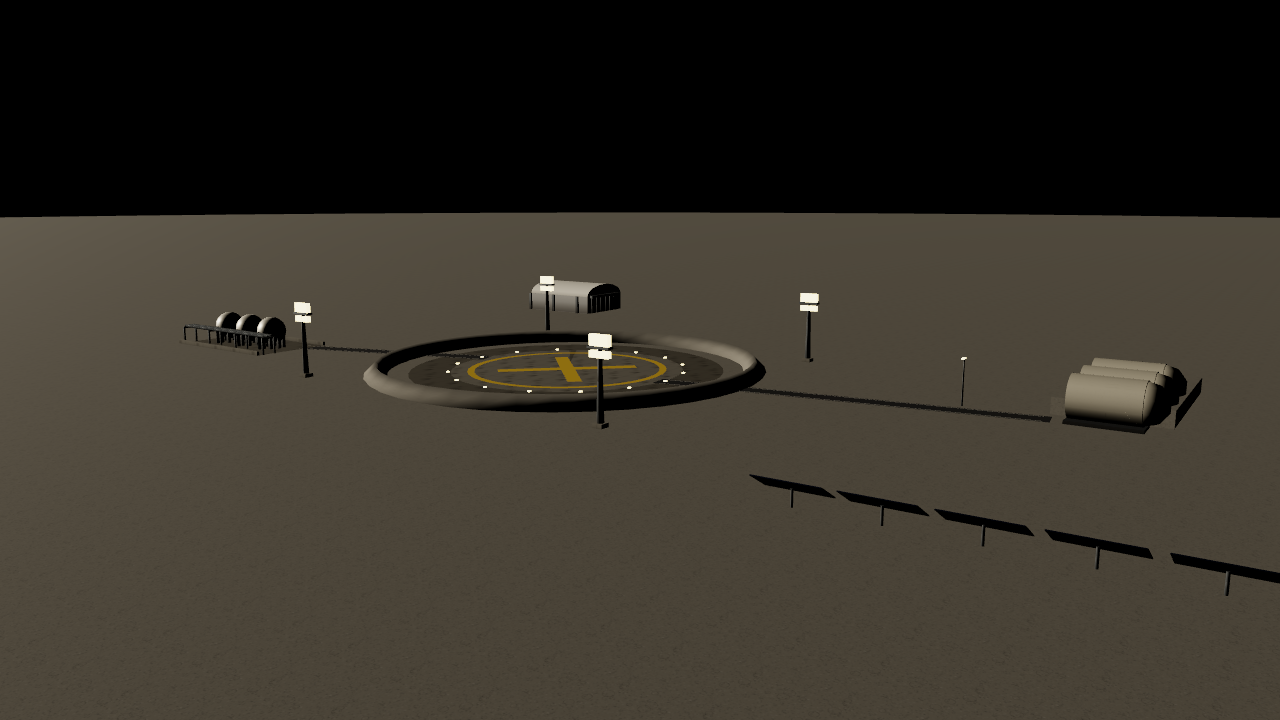
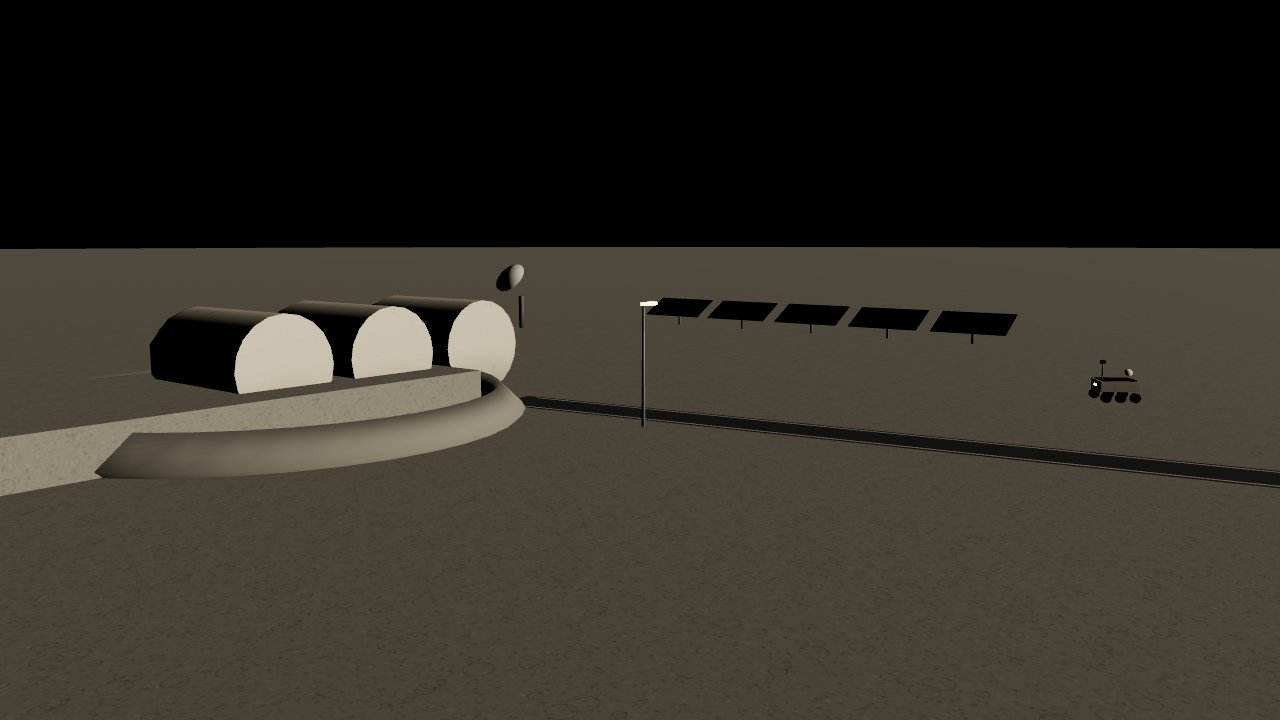
art-sites-6: night lighting (moon)
QA f5.4b: floodlight panels aimed at the pads, emissive light-pole heads, window and door lights, mast beacons; real lights capped per detail (hi 4 spots, mid 1 point, lo none), setSiteNight(obj, on) for the game, lights disposed with the site. Moon/Mars bases: hab berm and two six-wheel rovers (vehicles_art checks hab, tanks, dish, rover, pad, berm). Budget test caps real lights per detail.

Changed region(s): [[0.0, 0.275, 1.0, 0.7028], [0.5938, 0.6417, 1.0, 0.825]]

diff --git a/gfx/sites/kit.js b/gfx/sites/kit.js
@@ -33,11 +33,11 @@ const TEXDEF = {
 const MDEF = { concrete: [0xffffff, 0.95, 0, 'concrete'], apron: [0xc9c6c0, 0.9, 0, 'concrete'], asphalt: [0xffffff, 0.92, 0, 'asphalt'], mark: [0xe8c22a, 0.6, 0], white: [0xf2f1ed, 0.85, 0],
   clad: [0xffffff, 0.7, 0.15, 'clad'], band: [0x5a6f86, 0.6, 0.2], door: [0xa9adb2, 0.55, 0.6, 'clad'], tower: [0xffffff, 0.75, 0.45, 'rust'], steel: [0xffffff, 0.45, 0.8, 'steel'],
   tank: [0xffffff, 0.4, 0.3, 'tank'], pipe: [0xc4c7ca, 0.4, 0.8, 'steel'], dark: [0x2a2b2e, 0.85, 0.2, 'concrete'], deck: [0x4a4d52, 0.85, 0.5, 'steel'], hull: [0x2e333a, 0.6, 0.5, 'steel'],
-  lamp: [0xfff2c8, 0.4, 0, null, 0xffe7a0], ground: [0xffffff, 1, 0, 'ground'], sand: [0xffffff, 1, 0, 'sand'], sea: [0x15394f, 0.2, 0], regolith: [0xffffff, 1, 0, 'regolith'],
+  lamp: [0xfff2c8, 0.4, 0, null, 0xffe7a0], flood: [0xffffff, 0.3, 0, null, 0xfff4dc], win: [0x2a2a22, 0.3, 0, null, 0xffc874], beacon: [0xff3020, 0.4, 0, null, 0xff2010], ground: [0xffffff, 1, 0, 'ground'], sand: [0xffffff, 1, 0, 'sand'], sea: [0x15394f, 0.2, 0], regolith: [0xffffff, 1, 0, 'regolith'],
   redsoil: [0xffffff, 1, 0, 'redsoil'], gold: [0xc9a043, 0.35, 1], solar: [0x1d2a4a, 0.3, 0.6], hab: [0xdedbd2, 0.6, 0.2, 'tank'], glass: [0x0c1218, 0.1, 0.3], green: [0x4d5a3a, 1, 0],
   fence: [0x9da3a8, 0.5, 0.7], red: [0xb3241c, 0.5, 0.2], water: [0x2f6f8f, 0.15, 0] };
 export function smat(k) { if (MATS.has(k)) return MATS.get(k); const d = MDEF[k] || [0xff00ff, 1, 0], map = d[3] ? canvasTex(d[3], TEXDEF[d[3]]) : null;
-  const m = new S({ color: d[0], roughness: d[1], metalness: d[2], vertexColors: true, ...(map ? { map } : {}), ...(d[4] ? { emissive: d[4], emissiveIntensity: 2.2 } : {}) });
+  const m = new S({ color: d[0], roughness: d[1], metalness: d[2], vertexColors: true, ...(map ? { map } : {}), ...(d[4] ? { emissive: d[4], emissiveIntensity: k === 'flood' ? 4 : k === 'win' ? 1.6 : 2.4 } : {}) });
   if (k === 'mark') Object.assign(m, { polygonOffset: true, polygonOffsetFactor: -2, polygonOffsetUnits: -2 });
   m.name = 'site:' + k; m.userData.cached = true; weakDisposeListeners(m); MATS.set(k, m); return m; }
 // merge non-indexed geometries with position/normal/uv/color
@@ -47,7 +47,7 @@ export const SEG = { hi: 20, mid: 8, lo: 6 };
 const _q = new THREE.Quaternion(), _e = new THREE.Euler(), _v = new THREE.Vector3(), _s = new THREE.Vector3(), Y = new THREE.Vector3(0, 1, 0);
 const M = (p = [0, 0, 0], ry = 0, s = [1, 1, 1]) => { _e.set(0, ry, 0); return new THREE.Matrix4().compose(_v.set(...p), _q.setFromEuler(_e), _s.set(...s)); };
 // merge buffer: per material key; `tf` stack of placement matrices
-export class SK { constructor(detail) { this.detail = detail; this.seg = SEG[detail]; this.hi = detail === 'hi'; this.lo = detail === 'lo'; this.b = new Map(); this.T = [new THREE.Matrix4()]; this.base = 0; this.noAO = new Set(['mark', 'lamp', 'sea', 'ground', 'sand', 'regolith', 'redsoil', 'asphalt', 'water']); }
+export class SK { constructor(detail) { this.detail = detail; this.seg = SEG[detail]; this.hi = detail === 'hi'; this.lo = detail === 'lo'; this.b = new Map(); this.T = [new THREE.Matrix4()]; this.base = 0; this.lights = []; this.noAO = new Set(['mark', 'lamp', 'flood', 'win', 'beacon', 'sea', 'ground', 'sand', 'regolith', 'redsoil', 'asphalt', 'water']); }
   push(m) { this.T.push(this.T.at(-1).clone().multiply(m)); return this; } pop() { this.T.pop(); return this; }
   add(geo, k, m) { const g = geo.index ? geo.toNonIndexed() : geo; if (g !== geo) geo.dispose(); for (const a of Object.keys(g.attributes)) if (!['position', 'normal'].includes(a)) g.deleteAttribute(a);
     g.applyMatrix4(m ? this.T.at(-1).clone().multiply(m) : this.T.at(-1)); const P = g.attributes.position.array, N = g.attributes.normal.array, c = P.length / 3, uv = new Float32Array(c * 2), col = new Float32Array(c * 3), T = 8;
@@ -57,6 +57,7 @@ export class SK { constructor(detail) { this.detail = detail; this.seg = SEG[det
       const h = y - this.base, ao = Math.min(1, (0.5 + 0.5 * Math.min(1, Math.max(0, h) / 4)) * (ny < -0.5 ? 0.6 : 1) * (ny > 0.5 ? 1.05 : 0.92));
       col[i * 3] = col[i * 3 + 1] = col[i * 3 + 2] = this.noAO.has(k) ? 1 : ao; }
     g.setAttribute('uv', new THREE.BufferAttribute(uv, 2)); g.setAttribute('color', new THREE.BufferAttribute(col, 3)); (this.b.get(k) || this.b.set(k, []).get(k)).push(g); return this; }
+  light(p, aim = [0, 0, 0], pri = 1) { const v = new THREE.Vector3(...p).applyMatrix4(this.T.at(-1)), a = new THREE.Vector3(...aim).applyMatrix4(this.T.at(-1)); this.lights.push({ p: v.toArray(), aim: a.toArray(), pri }); return this; }
   box(k, w, h, d, p = [0, 0, 0], ry = 0) { return this.add(new THREE.BoxGeometry(w, h, d), k, M([p[0], p[1] + h / 2, p[2]], ry)); } // p = bottom centre
   cyl(k, r0, r1, h, p = [0, 0, 0], seg = this.seg, open = false) { return this.add(new THREE.CylinderGeometry(r1, r0, h, Math.max(3, seg), 1, open), k, M([p[0], p[1] + h / 2, p[2]])); }
   sph(k, r, p, seg = this.seg) { return this.add(new THREE.SphereGeometry(r, Math.max(4, seg), Math.max(3, seg >> 1)), k, M(p)); }
@@ -113,8 +114,9 @@ const parts = {
       for (const a of t.arms || []) trussArm(K, tx + w / 2, a.y, tz, a.len, 2.6); }
     if (!K.lo) for (const s of [-1, 1]) K.box('concrete', 6, 3, 6, [s * r * 0.6, 0, -r * 0.55]);
     const f = r * 1.15; fence(K, [[-f, -f], [f, -f], [f, f], [-f, f], [-f, -f]]); // pad perimeter fence
-    if (!K.lo) for (const [x, z] of [[-f, -f], [f, -f], [f, f], [-f, f]]) { K.cyl('steel', 0.4, 0.25, 30, [x * 0.95, 0, z * 0.95], 6); K.box('lamp', 3, 1.4, 0.8, [x * 0.95, 30, z * 0.95]); } },
-  catch(K, o) { const w = o.w || 12, h = o.h || 145; lattice(K, w, h, 'steel'); K.cyl('steel', 0.5, 0.15, 12, [0, h, 0], 6); catenary(K, 0, h + 12, 0, 90);
+    if (!K.lo) for (const [x, z] of [[-f, -f], [f, -f], [f, f], [-f, f]]) { K.cyl('steel', 0.4, 0.25, 30, [x * 0.95, 0, z * 0.95], 6); K.box('flood', 4, 2.2, 0.8, [x * 0.95, 30, z * 0.95], Math.atan2(x, z)); K.box('steel', 4.4, 0.4, 1.2, [x * 0.95, 29.6, z * 0.95], Math.atan2(x, z)); K.light([x * 0.95, 31, z * 0.95], [0, 10, 0], 0); }
+    if (o.tower && !K.lo) { const t = o.tower, tx = t.x ?? -(r * 0.4); for (const a of t.arms || []) K.box('win', 1.2, 0.6, 0.3, [tx + (t.w || 10) / 2 + 0.6, a.y - 1, (t.z ?? 0) + (t.w || 10) / 2 + 0.2]); K.box('beacon', 0.8, 0.8, 0.8, [tx, t.h + (t.mast || 20), t.z ?? 0]); } }, // arm-root lights, mast beacon
+  catch(K, o) { const w = o.w || 12, h = o.h || 145; lattice(K, w, h, 'steel'); K.cyl('steel', 0.5, 0.15, 12, [0, h, 0], 6); catenary(K, 0, h + 12, 0, 90); K.box('beacon', 1, 1, 1, [0, h + 12, 0]); if (!K.lo) for (const yy of [h * 0.3, h * 0.6, h * 0.9]) K.box('flood', 3, 1.5, 0.5, [0, yy, w / 2 + 0.4]); K.light([0, h * 0.6, w / 2 + 2], [0, 10, w / 2 + (o.arm || 35) * 0.85], 0);
     const ay = o.armY || h * 0.75, L = o.arm || 35, zc = w / 2 + L * 0.85; K.box('steel', w + 6, 8, 6, [0, ay - 2, w / 2 + 1]); // carriage riding the tower
     for (const s of [-1, 1]) { // chopsticks: tapered truss arms on pivots, with catch rails and bumper pads
       const x = s * (w / 2 + 2.5); K.cyl('steel', 1.6, 1.6, 6, [x, ay - 3, w / 2 + 2], 10);
@@ -133,11 +135,12 @@ const parts = {
       for (let z = -d / 2; z <= d / 2 + 0.1; z += rib) for (const s of [-1, 1]) K.box('steel', 1.0, h, 1.0, [s * (w / 2 + 0.5), 0, z]);
       const nd = o.doors || 2, rows = K.hi ? 7 : 4; for (let i = 0; i < nd; i++) { const x = (i - (nd - 1) / 2) * w / nd, dw = w / nd * 0.5, dh = h * 0.85;
         for (const s of [-1, 1]) { K.box('dark', dw + 2, dh + 1, 0.3, [x, 0, s * (d / 2 + 0.2)]); for (let r = 0; r < rows; r++) K.box('door', dw, dh / rows - 0.6, 0.7, [x, r * dh / rows, s * (d / 2 + 0.4)]); } } // stacked leaf door panels
+      for (const s of [-1, 1]) K.box('win', w * 0.9, 0.8, 0.3, [0, h * 0.92, s * (d / 2 + 1.1)]); K.box('win', w * 0.5, 1, 0.3, [w * 0.8, h * 0.2, d * 0.25 + 0.2]);
       K.box('clad', w * 0.6, h * 0.35, d * 0.5, [w * 0.8, 0, 0]); for (let i = 0; i < (K.hi ? 6 : 3); i++) K.box('dark', 4, 3, 3, [w * 0.8 - w * 0.2 + i * w * 0.08, h * 0.35, 0]); } // low bay + roof units
     K.box('dark', w + 1, 0.8, d + 1, [0, h, 0]); },
   hangar(K, o) { const w = o.w || 60, d = o.d || 90, h = o.h || 22; K.box('clad', w, h * 0.6, d);
     const g = new THREE.CylinderGeometry(w / 2, w / 2, d, Math.max(4, K.seg), 1, false, -Math.PI / 2, Math.PI); g.rotateX(-Math.PI / 2); g.scale(1, (h * 0.4) / (w / 2), 1); K.add(g, 'white', M([0, h * 0.6, 0]));
-    if (!K.lo) { const nl = K.hi ? 6 : 3; for (let i = 0; i < nl; i++) K.box('door', w * 0.8 / nl - 0.4, h * 0.55, 0.6, [-w * 0.4 + (i + 0.5) * w * 0.8 / nl, 0, d / 2]); K.box('steel', w * 0.85, 0.8, 1.2, [0, h * 0.55, d / 2 + 0.3]); // door leaves + track
+    if (!K.lo) { const nl = K.hi ? 6 : 3; for (let i = 0; i < nl; i++) K.box('door', w * 0.8 / nl - 0.4, h * 0.55, 0.6, [-w * 0.4 + (i + 0.5) * w * 0.8 / nl, 0, d / 2]); K.box('steel', w * 0.85, 0.8, 1.2, [0, h * 0.55, d / 2 + 0.3]); for (const x of [-w * 0.3, 0, w * 0.3]) K.box('lamp', 1.4, 0.4, 0.8, [x, h * 0.58, d / 2 + 0.8]); // door leaves + track + door lights
       for (let z = -d / 2; z <= d / 2; z += K.hi ? 10 : 30) for (const s of [-1, 1]) K.box('steel', 0.8, h * 0.6, 0.8, [s * (w / 2 + 0.4), 0, z]); } },
   tanks(K, o) { const n = o.n || 3, r = o.r || 8, gap = r * 2.6;
     for (let i = 0; i < n; i++) { const x = (i - (n - 1) / 2) * gap; if (o.style === 'h') { const g = new THREE.CylinderGeometry(r, r, r * 5, Math.max(4, K.seg)); g.rotateX(Math.PI / 2); K.add(g, 'tank', M([x, r + 1.5, 0])); if (!K.lo) { K.sph('tank', r, [x, r + 1.5, -r * 2.5], Math.max(4, K.seg >> 1)); K.sph('tank', r, [x, r + 1.5, r * 2.5], Math.max(4, K.seg >> 1)); K.box('concrete', r * 1.6, 1.5, 1.5, [x, 0, -r * 1.8]); K.box('concrete', r * 1.6, 1.5, 1.5, [x, 0, r * 1.8]); } }
@@ -151,7 +154,7 @@ const parts = {
       if (o.line && K.hi) { const dash = K.hi ? 12 : 24, nd = Math.floor(L / dash); for (let j = 0; j < nd; j++) { const t = (j + 0.5) * dash - L / 2; K.flat('mark', 0.3, dash * 0.5, [cx + ux * t, 0, cz + uz * t], ry, 0.04); } } // dashed centre line
       if (o.poles !== false) { const sp = K.hi ? 60 : 300, np = Math.floor(L / sp); for (let j = 1; j <= np; j++) { const t = j * sp - L / 2, px = cx + ux * t + uz * (w / 2 + 2), pz = cz + uz * t - ux * (w / 2 + 2);
         K.cyl('steel', 0.18, 0.12, 9, [px, 0, pz], 4); K.box('lamp', 0.5, 0.25, 1.4, [px - uz * 0.8, 9, pz + ux * 0.8]); } } } }, // light poles
-  masts(K, o) { for (const [x, z] of o.pts) { const h = o.h || 40; K.cyl('steel', 0.7, 0.35, h, [x, 0, z], 6); K.box('lamp', 4, 2, 1, [x, h, z]); if (!K.lo) { K.box('steel', 4.6, 0.4, 1.4, [x, h - 0.4, z]); K.box('concrete', 2, 0.8, 2, [x, 0, z]); } if (K.hi) K.box('lamp', 4, 1.2, 1, [x, h - 2, z]); } },
+  masts(K, o) { for (const [x, z] of o.pts) { const h = o.h || 40; K.light([x, h, z], [x * 0.3, 0, z * 0.3], 1); K.cyl('steel', 0.7, 0.35, h, [x, 0, z], 6); K.box('lamp', 4, 2, 1, [x, h, z]); if (!K.lo) { K.box('steel', 4.6, 0.4, 1.4, [x, h - 0.4, z]); K.box('concrete', 2, 0.8, 2, [x, 0, z]); } if (K.hi) K.box('lamp', 4, 1.2, 1, [x, h - 2, z]); } },
   water(K, o) { const h = o.h || 60, r = o.r || 9; if (!K.lo) { for (let i = 0; i < 4; i++) { const a = i * Math.PI / 2 + Math.PI / 4; K.beam('steel', [Math.cos(a) * r * 0.9, 0, Math.sin(a) * r * 0.9], [Math.cos(a) * r * 0.35, h, Math.sin(a) * r * 0.35], 0.9); }
       for (let j = 1; j < (K.hi ? 4 : 2) + 1; j++) { const t = j / ((K.hi ? 4 : 2) + 1), rr = r * (0.9 - 0.55 * t); K.add(new THREE.TorusGeometry(rr, 0.2, 3, 8).rotateX(Math.PI / 2), 'steel', M([0, h * t, 0])); } } // tension rings
     K.cyl('pipe', 1.2, 1.2, h, [0, 0, 0], 6); K.sph('white', r, [0, h + r * 0.6, 0]); if (!K.lo) { K.add(new THREE.TorusGeometry(r * 0.95, 0.3, 3, K.hi ? 20 : 10).rotateX(Math.PI / 2), 'steel', M([0, h + r * 0.6, 0])); K.cyl('pipe', 0.8, 0.8, 30, [0, 0, 0], 6); } },
@@ -162,7 +165,7 @@ const parts = {
     for (const s of [-1, 1]) { K.box('hull', 1.2, 3, L - 4, [s * (W / 2 - 0.6), 2, 0]); if (!K.lo) { K.box('tank', 6, 5, 8, [s * (W / 2 - 4), 2, -L / 2 + 6]); K.box('tank', 6, 5, 8, [s * (W / 2 - 4), 2, L / 2 - 6]); K.cyl('dark', 2.2, 2.2, 3, [s * (W / 2 - 4), -7, -L / 2 + 6], K.seg); K.cyl('dark', 2.2, 2.2, 3, [s * (W / 2 - 4), -7, L / 2 - 6], K.seg);
       fence(K, [[s * (W / 2 - 0.3), -L / 2 + 12], [s * (W / 2 - 0.3), L / 2 - 12]], 1.2); } }
     if (K.hi) K.box('steel', W - 6, 0.6, 1, [0, 2.4, -L / 2 + 2]); },
-  block(K, o) { const w = o.w || 20, h = o.h || 6, d = o.d || 14; K.box(o.mat || 'concrete', w, h, d); if (!K.lo) { K.box('dark', w + 0.6, 0.6, d + 0.6, [0, h, 0]); K.box('glass', w * 0.7, 1.2, 0.2, [0, h * 0.5, d / 2]); }
+  block(K, o) { const w = o.w || 20, h = o.h || 6, d = o.d || 14; K.box(o.mat || 'concrete', w, h, d); if (!K.lo) { K.box('dark', w + 0.6, 0.6, d + 0.6, [0, h, 0]); K.box('win', w * 0.7, 1.2, 0.2, [0, h * 0.5, d / 2]); K.box('win', w * 0.7, 1.2, 0.2, [0, h * 0.5, -d / 2]); K.box('lamp', 1.2, 0.4, 0.6, [0, h - 1, d / 2 + 0.4]); }
     if (o.roof && !K.lo) { K.box('dark', w * 0.3, 2, d * 0.3, [0, h, 0]); K.cyl('steel', 0.15, 0.1, 12, [w * 0.4, h, 0], 4); } },
   stand(K, o) { const h = o.h || 30; lattice(K, 8, h, 'steel'); K.box('concrete', 16, 4, 16); K.box('steel', 12, 1.5, 12, [0, h, 0]); }, // static-fire stand
   hab(K, o) { const n = o.n || 3, r = o.r || 4; for (let i = 0; i < n; i++) { const g = new THREE.CylinderGeometry(r, r, r * 3, Math.max(4, K.seg)); g.rotateZ(Math.PI / 2); K.add(g, 'hab', M([0, r + 0.6, i * r * 2.4], 0)); if (!K.lo) { K.sph('hab', r * 0.96, [r * 1.5, r + 0.6, i * r * 2.4], Math.max(4, K.seg >> 1)); K.box('steel', r * 3.2, 0.6, r * 1.4, [0, 0, i * r * 2.4]); } }
@@ -170,6 +173,9 @@ const parts = {
   solar(K, o) { const n = o.n || 4; for (let i = 0; i < n; i++) { const x = (i - (n - 1) / 2) * 12; if (!K.lo) K.cyl('steel', 0.2, 0.2, 2.5, [x, 0, 0], 4); const g = new THREE.BoxGeometry(10, 0.15, 5); g.rotateX(-0.5); K.add(g, 'solar', M([x, 2.8, 0])); } },
   berm(K, o) { const r = o.r || 40; K.add(new THREE.TorusGeometry(r, o.t || 2.5, 4, Math.max(8, K.seg * 2)).rotateX(Math.PI / 2), o.mat || 'regolith', M([0, 0.4, 0])); },
   dish(K, o) { const r = o.r || 5; K.cyl('steel', 0.4, 0.4, o.h || 6, [0, 0, 0], 6); const g = new THREE.SphereGeometry(r, Math.max(4, K.seg), 3, 0, Math.PI * 2, 0, 0.7); g.rotateX(-0.9); K.add(g, 'white', M([0, (o.h || 6) + 1, 0])); },
+  rover(K, o) { const L = o.len || 3.2, W = o.w || 2.2; K.box('hab', L, 0.9, W, [0, 0.9, 0]); K.box('solar', L * 0.9, 0.08, W * 0.9, [0, 1.8, 0]);
+    for (const i of [-1, 0, 1]) for (const s of [-1, 1]) { const g = new THREE.CylinderGeometry(0.42, 0.42, 0.35, K.lo ? 6 : K.hi ? 14 : 8); g.rotateX(Math.PI / 2); K.add(g, 'dark', M([i * L * 0.38, 0.42, s * (W / 2 + 0.2)])); }
+    if (!K.lo) { K.cyl('steel', 0.06, 0.06, 1.4, [L * 0.35, 1.8, 0], 4); K.box('dark', 0.4, 0.3, 0.3, [L * 0.35, 3.2, 0]); K.box('lamp', 0.12, 0.2, 0.5, [L / 2 + 0.05, 1.3, 0]); if (o.dish) { const g = new THREE.SphereGeometry(0.5, 8, 2, 0, Math.PI * 2, 0, 0.8); g.rotateX(-1); K.add(g, 'white', M([-L * 0.3, 2.3, 0])); } } }, // six-wheel surface rover
   fence(K, o) { fence(K, o.pts, o.h || 2.4); },
   ground(K, o) { K.disc(o.mat || 'ground', o.r || 2500, [0, 0, 0], K.seg * 3, -0.05); if (o.sea) K.flat('sea', o.sea.w || 12000, o.sea.d || 12000, [o.sea.x || 0, 0, o.sea.z || 0], 0, -0.1); },
 };
@@ -178,16 +184,23 @@ export const PART_KINDS = Object.keys(parts);
 function buildGroup(S, items, detail, name, opts) { const K = new SK(detail);
   for (const o of items) { if (o.k === 'ground' && !opts.ground) continue; if (o.min && ['lo', 'mid', 'hi'].indexOf(detail) < ['lo', 'mid', 'hi'].indexOf(o.min)) continue;
     const [x, z] = o.at || [0, 0]; K.base = o.y || 0; K.push(M([x, o.y || 0, z], o.rot || 0)); parts[o.k](K, o); K.pop(); }
-  return K.build(name); }
+  const grp = K.build(name); grp.userData.lights = K.lights; return grp; }
 export function buildSite(S, { detail = 'hi', ground = false } = {}) { const g = new THREE.Group(); g.name = 'site:' + S.id;
   const main = buildGroup(S, S.layout, detail, S.id, { ground }); g.add(main); let tris = main.userData.tris;
   for (const st of S.stations || []) { const s = buildGroup(S, st.layout, detail, S.id + ':' + st.id, { ground }); const R = BODY_R[S.body] || S.R;
     const off = localOffset(S.body, S.lat, S.lon, st.lat, st.lon, R); s.matrix.fromArray(localBasis(S.body, S.lat, S.lon, st.lat, st.lon)).setPosition(off[0], off[1], off[2]); s.matrixAutoUpdate = false; s.userData.station = st.id;
     g.add(s); tris += s.userData.tris; }
-  Object.assign(g.userData, { id: S.id, body: S.body, lat: S.lat, lon: S.lon, detail, tris, site: true }); return g; }
+  // night lighting: emissive heads/panels are always there; real lights only a few, gated by detail (hi 4 spots, mid 1 point, lo none)
+  const cand = (main.userData.lights || []).sort((a, b) => a.pri - b.pri), nL = { hi: 4, mid: 1, lo: 0 }[detail] || 0;
+  for (const c of cand.slice(0, nL)) { let l; if (detail === 'hi') { l = new THREE.SpotLight(0xfff0d8, 4000, 420, 0.75, 0.6, 1.6); l.target.position.set(...c.aim); g.add(l.target); } else l = new THREE.PointLight(0xfff0d8, 3000, 360, 1.6);
+    l.position.set(...c.p); l.castShadow = false; l.name = 'siteLight'; g.add(l); }
+  Object.assign(g.userData, { id: S.id, body: S.body, lat: S.lat, lon: S.lon, detail, tris, site: true, lights: Math.min(nL, cand.length) }); return g; }
 export function buildSiteLOD(S, { phone = false } = {}) { const L = new THREE.LOD(); L.name = 'siteLOD:' + S.id;
   const near = buildSite(S, { detail: phone ? 'mid' : 'hi' }), mid = buildSite(S, { detail: 'mid' }), lo = buildSite(S, { detail: 'lo' });
   L.addLevel(near, 0); L.addLevel(mid, LOD_DIST.mid); L.addLevel(lo, LOD_DIST.lo); Object.assign(L.userData, { id: S.id, near, mid, lo }); return L; }
 // place a built site (or LOD) in its body's frame (metres from the body centre)
 export function placeSite(obj, S, R = BODY_R[S.body] || S.R) { obj.matrix.fromArray(siteMatrix(S.body, S.lat, S.lon, R, S.alt || 0)); obj.matrix.decompose(obj.position, obj.quaternion, obj.scale); return obj; }
-export function disposeSite(obj) { if (obj.isLOD) { for (const l of obj.levels) dispose(l.object); obj.removeFromParent(); obj.levels.length = 0; return; } dispose(obj); }
+// night switch for the game (by local sun elevation): real lights + emissive strength. Default after build: on.
+export function setSiteNight(obj, on) { obj.traverse(o => { if (o.isLight) o.visible = on; }); }
+const freeLights = o => o.traverse(l => { if (l.isLight && l.dispose) l.dispose(); });
+export function disposeSite(obj) { freeLights(obj); if (obj.isLOD) { for (const l of obj.levels) dispose(l.object); obj.removeFromParent(); obj.levels.length = 0; return; } dispose(obj); }

diff --git a/gfx/sites/viewer.html b/gfx/sites/viewer.html
@@ -3,16 +3,17 @@
 <style>html,body{margin:0;background:#000;overflow:hidden}</style></head><body><script type="module">
 // site hero viewer: ?id=<site>&view=hero|top|phone&detail=hi|mid|lo&w=&h=   (sets window.__ready after 3 frames)
 import * as THREE from 'three/webgpu';
-import { buildSite } from './kit.js?v=art1';
+import { buildSite, setSiteNight } from './kit.js?v=art1';
 const q = new URLSearchParams(location.search), id = q.get('id'), view = q.get('view') || 'hero', detail = q.get('detail') || (view === 'phone' ? 'mid' : 'hi');
 const W = +q.get('w') || (view === 'phone' ? 390 : 1280), H = +q.get('h') || (view === 'phone' ? 844 : 720);
 const S = (await import('./site_' + id + '.js?v=art1')).SITE, V = (S.views || {})[view] || S.views?.hero || { eye: [400, 200, 600], at: [0, 20, 0] };
 const renderer = new THREE.WebGPURenderer({ forceWebGL: true, antialias: true }); renderer.setSize(W, H); renderer.toneMapping = THREE.ACESFilmicToneMapping; document.body.appendChild(renderer.domElement); await renderer.init();
 const scene = new THREE.Scene(), sky = S.sky ?? (S.body === 'earth' ? 0x8fb4d8 : S.body === 'mars' ? 0xc49a7a : 0x020306); scene.background = new THREE.Color(sky);
-if (S.body !== 'moon' && S.body !== 'generic' && view !== 'top' && !V.nofog) scene.fog = new THREE.Fog(sky, 2500, 14000);
-scene.add(new THREE.HemisphereLight(S.body === 'moon' ? 0x30343a : 0xdfe8f2, 0x4a4640, S.body === 'moon' ? 0.25 : 0.9));
-const sun = new THREE.DirectionalLight(0xfff4e0, S.body === 'mars' ? 2.2 : 3); sun.position.set(...(S.sun || [-600, 500, 300])); scene.add(sun);
-const g = buildSite(S, { detail, ground: true }); scene.add(g);
+if (V.night) scene.background = new THREE.Color(0x04060c);
+if (!V.night && S.body !== 'moon' && S.body !== 'generic' && view !== 'top' && !V.nofog) scene.fog = new THREE.Fog(sky, 2500, 14000);
+scene.add(new THREE.HemisphereLight(V.night ? 0x1a2238 : S.body === 'moon' ? 0x30343a : 0xdfe8f2, 0x4a4640, V.night ? 0.06 : S.body === 'moon' ? 0.25 : 0.9));
+const sun = new THREE.DirectionalLight(V.night ? 0x8fa6d8 : 0xfff4e0, V.night ? 0.12 : S.body === 'mars' ? 2.2 : 3); sun.position.set(...(S.sun || [-600, 500, 300])); scene.add(sun);
+const g = buildSite(S, { detail, ground: true }); setSiteNight(g, !!V.night); scene.add(g);
 const cam = new THREE.PerspectiveCamera(V.fov || (view === 'phone' ? 55 : 40), W / H, 1, 60000); cam.position.set(...V.eye); cam.lookAt(...V.at);
 for (let i = 0; i < 3; i++) { renderer.render(scene, cam); await new Promise(r => requestAnimationFrame(r)); }
 window.__ready = { tris: g.userData.tris, meshes: g.children.reduce((n, c) => n + c.children.length, 0) }; document.title = 'ready';

diff --git a/gfx/sites/budget.html b/gfx/sites/budget.html
@@ -12,7 +12,7 @@ const renderer = new THREE.WebGPURenderer({ forceWebGL: true }); renderer.setSiz
 const scene = new THREE.Scene(), cam = new THREE.PerspectiveCamera(50, 1, 1, 1e5); cam.position.set(300, 200, 600); cam.lookAt(0, 0, 0); scene.add(new THREE.HemisphereLight(0xffffff, 0x444444, 1));
 const count = g => { let n = 0, inst = 0; g.traverse(m => { if (m.isInstancedMesh) inst++; if (!m.isMesh) return; for (let p = m; p; p = p.parent) if (!p.visible) return; n++; }); return [n, inst]; };
 const out = { ids, rows: [], phone: [], place: [], mem: [], heap: [] };
-for (const id of ids) for (const detail of ['hi', 'mid', 'lo']) { const g = buildSite(SITES[id], { detail }); const [meshes, inst] = count(g); out.rows.push({ id, detail, tris: g.userData.tris, meshes, inst }); disposeSite(g); }
+for (const id of ids) for (const detail of ['hi', 'mid', 'lo']) { const g = buildSite(SITES[id], { detail }); const [meshes, inst] = count(g); out.rows.push({ id, detail, tris: g.userData.tris, meshes, inst, lights: g.userData.lights, lightObjs: (() => { let n = 0; g.traverse(o => o.isLight && n++); return n; })() }); disposeSite(g); }
 for (const id of ids) { const L = buildSiteLOD(SITES[id], { phone: true }); const [meshes] = count(L.userData.near); out.phone.push({ id, tris: L.userData.near.userData.tris, meshes, levels: L.levels.length }); disposeSite(L); }
 for (const id of ids) { const S = SITES[id], g = placeSite(new THREE.Group(), S); g.updateMatrixWorld(true); const up = new THREE.Vector3(0, 1, 0).applyQuaternion(g.quaternion), d = upDir(S.body, S.lat, S.lon), p = g.position.clone().normalize();
   out.place.push({ id, dUp: up.distanceTo(new THREE.Vector3(...d)), dPos: p.distanceTo(new THREE.Vector3(...d)), r: g.position.length() }); }

diff --git a/gfx/sites/site_moon.js b/gfx/sites/site_moon.js
@@ -7,9 +7,10 @@ export const SITE = { id: 'moon', name: 'Moon Base Pad', body: 'moon', lat: 0.7,
     { k: 'hab', at: [110, -30], n: 3, r: 4 },
     { k: 'solar', at: [110, 60], n: 5 },
     { k: 'tanks', at: [-90, 20], n: 3, r: 3.5 },
-    { k: 'dish', at: [150, 40], r: 4, h: 5 },
+    { k: 'dish', at: [150, 40], r: 4, h: 5 }, { k: 'berm', at: [110, -28], r: 18, t: 2 },
+    { k: 'rover', at: [60, 22], rot: 0.6, dish: true }, { k: 'rover', at: [-40, 40], rot: -1.2 },
     { k: 'hangar', at: [-70, -90], w: 18, d: 24, h: 9, rot: Math.PI / 2 },
     { k: 'masts', pts: [[-40, -40], [40, -40], [40, 40], [-40, 40]], h: 14 },
     { k: 'road', pts: [[26, 0], [100, -10]], w: 5 }, { k: 'road', pts: [[-26, 0], [-75, 15]], w: 5 },
   ],
-  views: { hero: { eye: [140, 40, 170], at: [20, 4, 0] }, top: { eye: [30, 420, 200], at: [30, 0, 0] }, phone: { eye: [90, 30, 120], at: [20, 5, 0] } } };
+  views: { hero: { eye: [40, 14, -70], at: [95, 3, 0] }, top: { eye: [30, 420, 200], at: [30, 0, 0] }, phone: { eye: [90, 30, 120], at: [20, 5, 0] } } };
